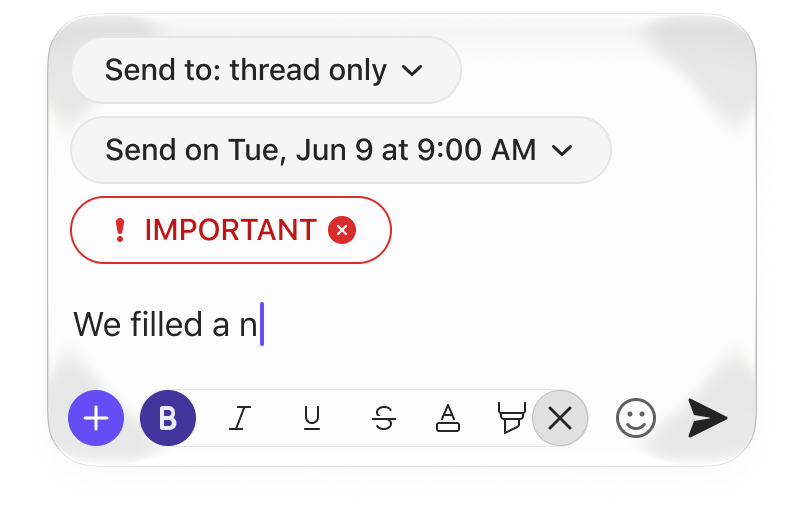
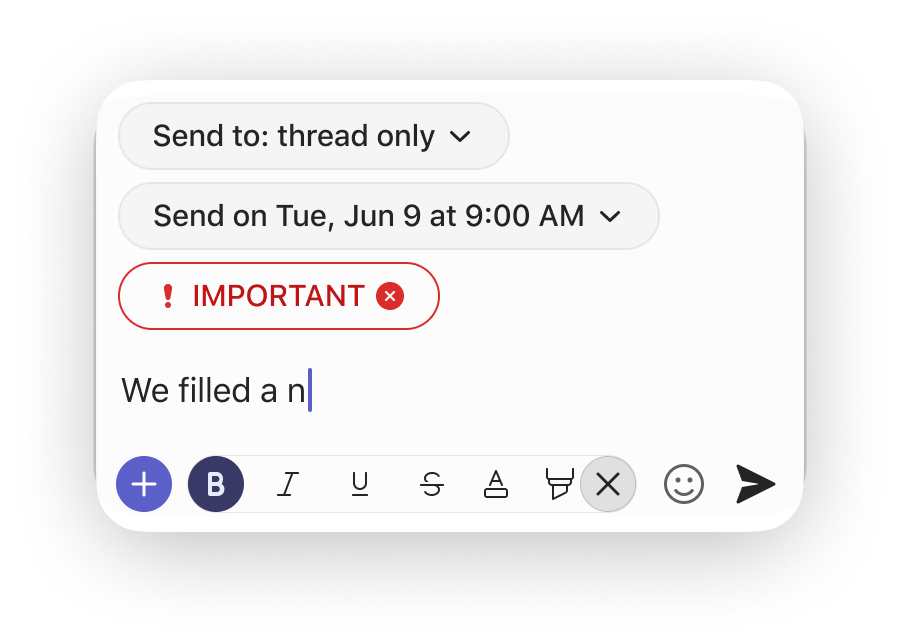
Compose: refresh Layout previews with new 2x PNG exports
Re-exported the 12 instances of the Compose artboard (106947:228708)
at 2x with alpha; image boxes now use render bounds and each <img>
carries data-figma-id.

Claude-Session: https://claude.ai/code/session_01CQ2xUocgyG3pUq1RpzS89T

diff --git a/index.html b/index.html
@@ -10588,8 +10588,8 @@ Icon only = True
                 <div class="lay-block-title">Typing</div>
               </div>
               <div class="lay-preview lay-preview-wide lay-preview-stack" data-figma="PASTE HERE">
-                <img src="images/compose/compose-typing-idle@2x.png" width="402" height="87" alt="Compose whole — Variant=Typing · State=Idle">
-                <img src="images/compose/compose-typing-engaged@2x.png" width="402" height="133" alt="Compose whole — Variant=Typing · State=Engaged">
+                <img src="images/compose/compose-typing-idle@2x.png" width="450" height="144" alt="Compose whole — Variant=Typing · State=Idle" data-figma-id="I106947:228708;20995:3166;107503:227682;20995:3084;107503:227679">
+                <img src="images/compose/compose-typing-engaged@2x.png" width="450" height="190" alt="Compose whole — Variant=Typing · State=Engaged" data-figma-id="I106947:228708;20995:3166;107503:227682;20995:3084;107516:230165">
               </div>
               <div class="lay-props">Compose whole · Variant=Typing · State=Idle / Variant=Typing · State=Engaged</div>
             </div>
@@ -10598,8 +10598,8 @@ Icon only = True
                 <div class="lay-block-title">Recording</div>
               </div>
               <div class="lay-preview lay-preview-wide lay-preview-stack" data-figma="PASTE HERE">
-                <img src="images/compose/compose-recording-idle@2x.png" width="403" height="87" alt="Compose whole — Variant=Recording · State=Idle">
-                <img src="images/compose/compose-recording-engaged@2x.png" width="402" height="87" alt="Compose whole — Variant=Recording · State=Engaged">
+                <img src="images/compose/compose-recording-idle@2x.png" width="402.5" height="87" alt="Compose whole — Variant=Recording · State=Idle" data-figma-id="I106947:228708;20995:3166;107503:227929;20995:3084;107503:227928">
+                <img src="images/compose/compose-recording-engaged@2x.png" width="402" height="87" alt="Compose whole — Variant=Recording · State=Engaged" data-figma-id="I106947:228708;20995:3166;107503:227929;20995:3084;107516:230073">
               </div>
               <div class="lay-props">Compose whole · Variant=Recording · State=Idle / Variant=Recording · State=Engaged</div>
             </div>
@@ -10611,7 +10611,7 @@ Icon only = True
                 <div class="lay-block-title">Typing Idle</div>
               </div>
               <div class="lay-preview lay-preview-wide" data-figma="PASTE HERE">
-                <img src="images/compose/compose-typing-idle@2x.png" width="402" height="87" alt="Compose whole — Variant=Typing · State=Idle">
+                <img src="images/compose/compose-typing-idle@2x.png" width="450" height="144" alt="Compose whole — Variant=Typing · State=Idle" data-figma-id="I106947:228708;20995:3166;107503:227716;20995:3084;107503:227715">
               </div>
               <div class="lay-props">Compose whole · Variant=Typing · State=Idle</div>
             </div>
@@ -10620,7 +10620,7 @@ Icon only = True
                 <div class="lay-block-title">Typing Engaged</div>
               </div>
               <div class="lay-preview lay-preview-wide" data-figma="PASTE HERE">
-                <img src="images/compose/compose-typing-engaged@2x.png" width="402" height="133" alt="Compose whole — Variant=Typing · State=Engaged">
+                <img src="images/compose/compose-typing-engaged@2x.png" width="450" height="190" alt="Compose whole — Variant=Typing · State=Engaged" data-figma-id="I106947:228708;20995:3166;107503:228064;20995:3084;107503:228063">
               </div>
               <div class="lay-props">Compose whole · Variant=Typing · State=Engaged</div>
             </div>
@@ -10629,7 +10629,7 @@ Icon only = True
                 <div class="lay-block-title">Recording Idle</div>
               </div>
               <div class="lay-preview lay-preview-wide" data-figma="PASTE HERE">
-                <img src="images/compose/compose-recording-idle@2x.png" width="403" height="87" alt="Compose whole — Variant=Recording · State=Idle">
+                <img src="images/compose/compose-recording-idle@2x.png" width="402.5" height="87" alt="Compose whole — Variant=Recording · State=Idle" data-figma-id="I106947:228708;20995:3166;107516:230327;20995:3084;107516:230320">
               </div>
               <div class="lay-props">Compose whole · Variant=Recording · State=Idle</div>
             </div>
@@ -10638,7 +10638,7 @@ Icon only = True
                 <div class="lay-block-title">Recording Engaged</div>
               </div>
               <div class="lay-preview lay-preview-wide" data-figma="PASTE HERE">
-                <img src="images/compose/compose-recording-engaged@2x.png" width="402" height="87" alt="Compose whole — Variant=Recording · State=Engaged">
+                <img src="images/compose/compose-recording-engaged@2x.png" width="402" height="87" alt="Compose whole — Variant=Recording · State=Engaged" data-figma-id="I106947:228708;20995:3166;107516:230328;20995:3084;107516:230323">
               </div>
               <div class="lay-props">Compose whole · Variant=Recording · State=Engaged</div>
             </div>
@@ -10650,7 +10650,7 @@ Icon only = True
                 <div class="lay-block-title">Format</div>
               </div>
               <div class="lay-preview lay-preview-wide" data-figma="PASTE HERE">
-                <img src="images/compose/compose-format@2x.png" width="402" height="133" alt="Compose whole — Variant=Typing · State=Idle · Format">
+                <img src="images/compose/compose-format@2x.png" width="450" height="190" alt="Compose whole — Variant=Typing · State=Idle · Format" data-figma-id="I106947:228708;20995:3166;107615:32824;20995:3084;107615:32821">
               </div>
               <div class="lay-props">Compose whole · Variant=Typing · State=Idle · Format</div>
             </div>
@@ -10659,7 +10659,7 @@ Icon only = True
                 <div class="lay-block-title">Format - wide</div>
               </div>
               <div class="lay-preview lay-preview-wide" data-figma="PASTE HERE">
-                <img src="images/compose/compose-format-wide@2x.png" width="585" height="133" alt="Compose whole — Variant=Typing · State=Idle · Format · 585dp wide">
+                <img src="images/compose/compose-format-wide@2x.png" width="633" height="190" alt="Compose whole — Variant=Typing · State=Idle · Format · 585dp wide" data-figma-id="I106947:228708;20995:3166;107615:33698;20995:3084;107615:33697">
               </div>
               <div class="lay-props">Compose whole · Variant=Typing · State=Idle · Format · 585dp wide</div>
             </div>
@@ -10668,7 +10668,7 @@ Icon only = True
                 <div class="lay-block-title">Message props</div>
               </div>
               <div class="lay-preview lay-preview-wide" data-figma="PASTE HERE">
-                <img src="images/compose/compose-message-props@2x.png" width="402" height="265" alt="Compose whole — Variant=Typing · State=Idle · Message props">
+                <img src="images/compose/compose-message-props@2x.png" width="450" height="322" alt="Compose whole — Variant=Typing · State=Idle · Message props" data-figma-id="I106947:228708;20995:3166;107615:33783;20995:3084;107615:33782">
               </div>
               <div class="lay-props">Compose whole · Variant=Typing · State=Idle · Message props</div>
             </div>
@@ -10677,7 +10677,7 @@ Icon only = True
                 <div class="lay-block-title">Media well</div>
               </div>
               <div class="lay-preview lay-preview-wide" data-figma="PASTE HERE">
-                <img src="images/compose/compose-media-well@2x.png" width="402" height="351" alt="Compose whole — Variant=Typing · State=Idle · Media well">
+                <img src="images/compose/compose-media-well@2x.png" width="450" height="408" alt="Compose whole — Variant=Typing · State=Idle · Media well" data-figma-id="I106947:228708;20995:3166;107615:72330;20995:3084;107615:72329">
               </div>
               <div class="lay-props">Compose whole · Variant=Typing · State=Idle · Media well</div>
             </div>
